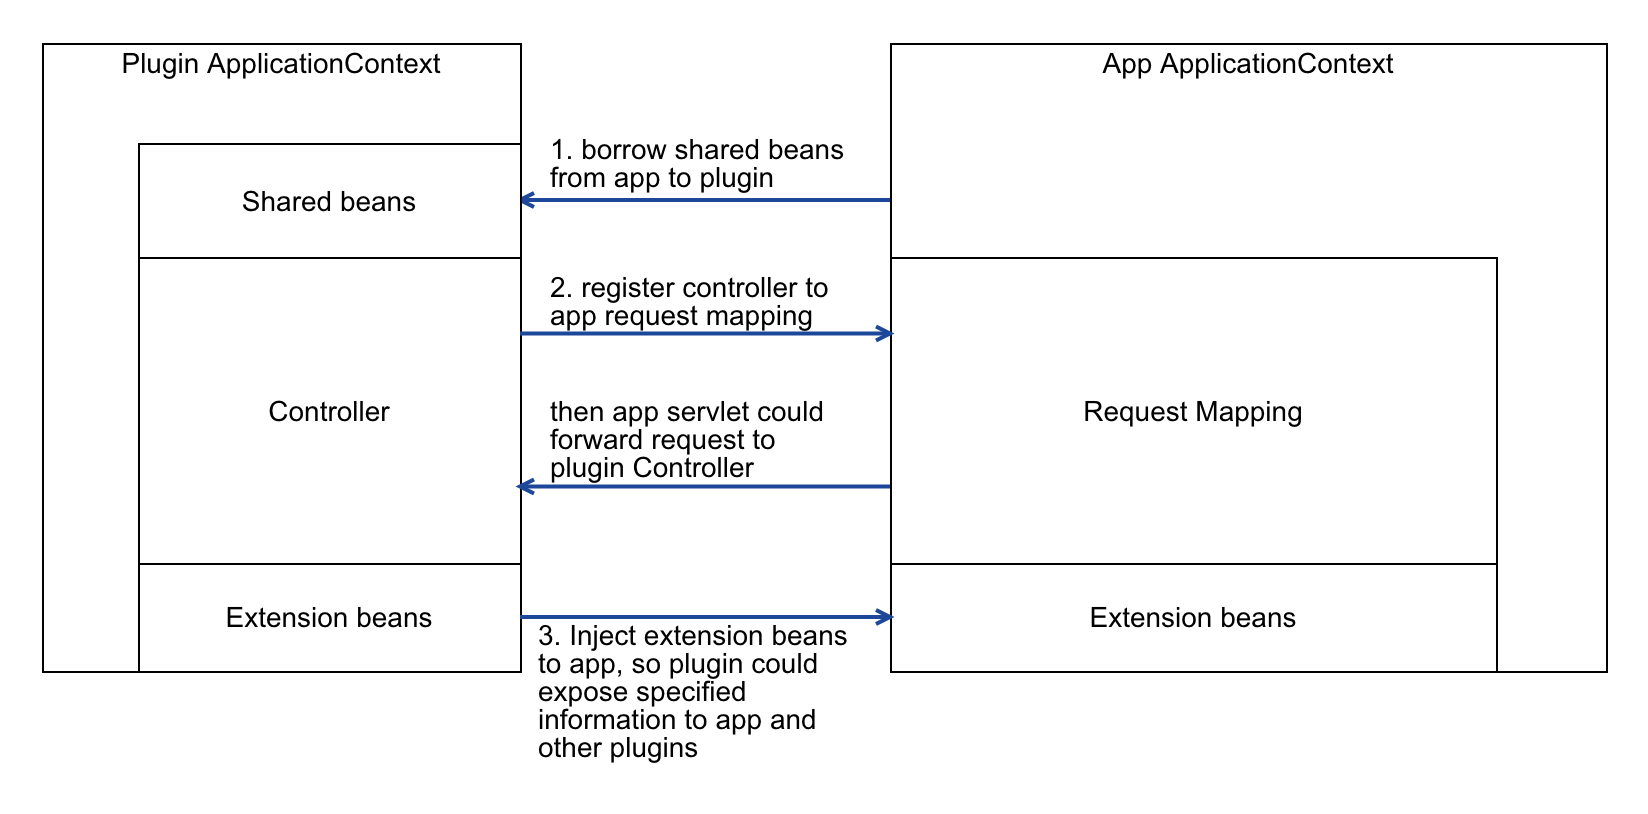
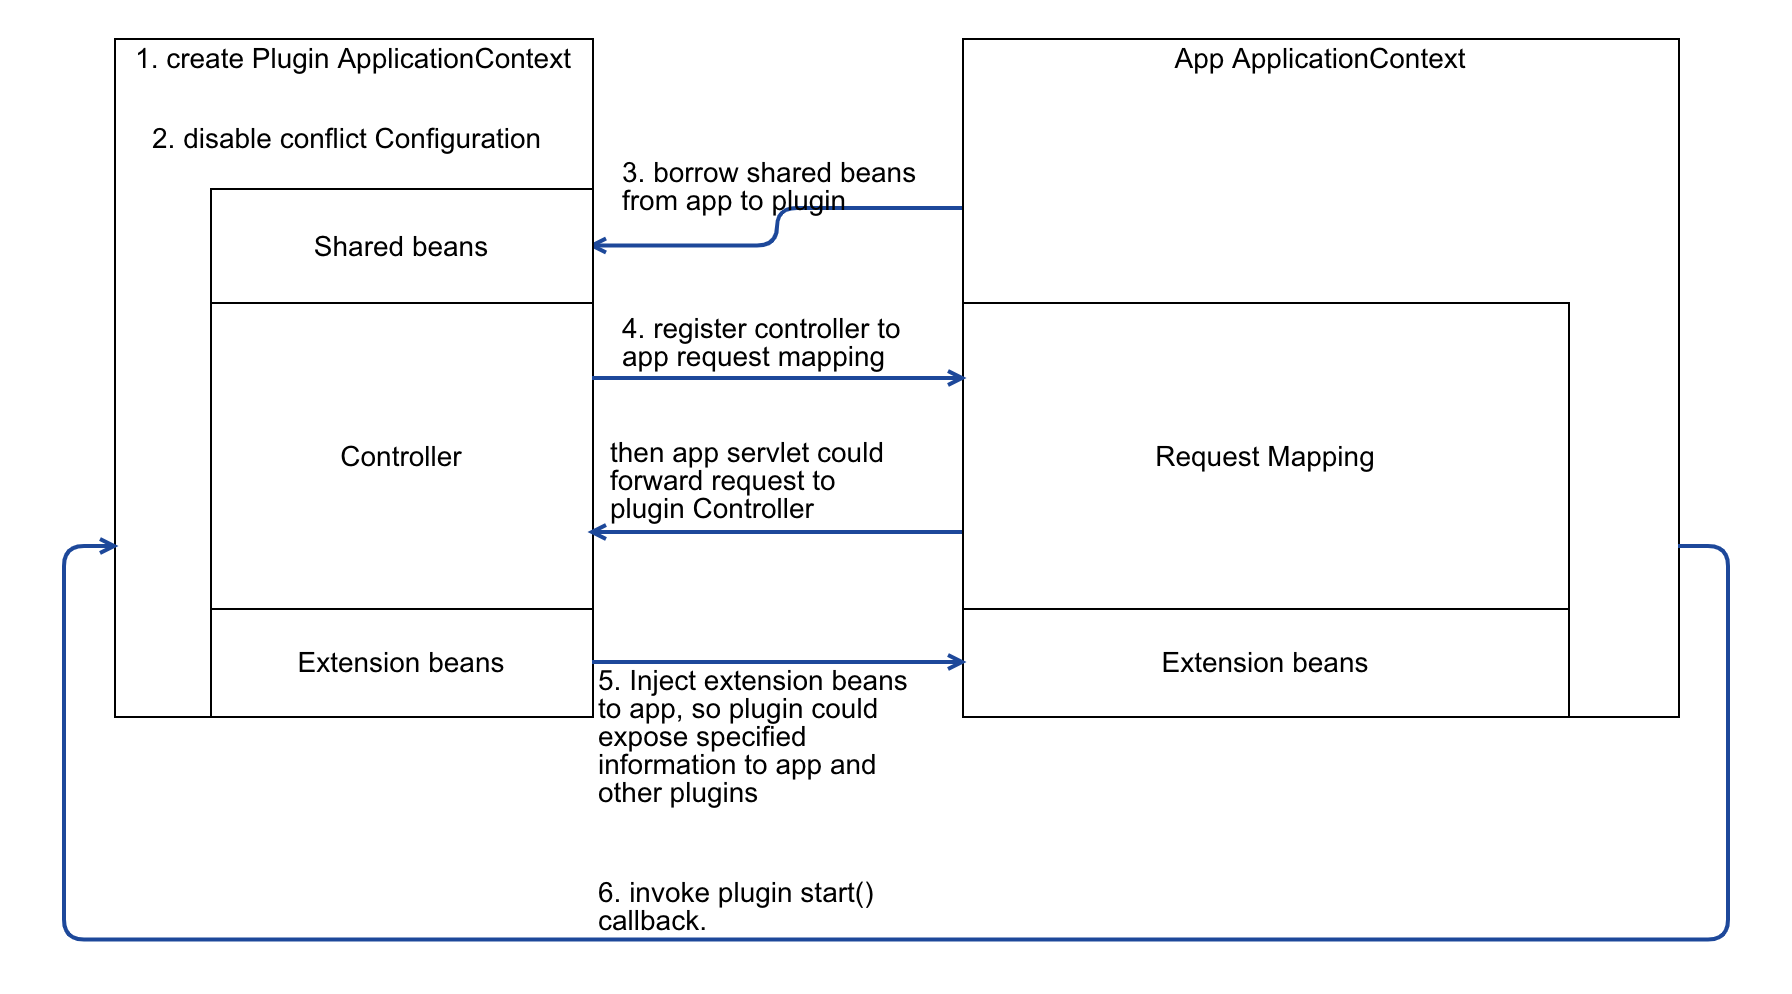
Refactor ApplicationContextProvider

diff --git a/sbp-core/src/main/java/org/laxture/sbp/utils/MultiApplicationContextProvider.java b/sbp-core/src/main/java/org/laxture/sbp/utils/MultiApplicationContextProvider.java
@@ -1,0 +1,105 @@
+/*
+ * Copyright (C) 2019-present the original author or authors.
+ *
+ * Licensed under the Apache License, Version 2.0 (the "License");
+ * you may not use this file except in compliance with the License.
+ * You may obtain a copy of the License at
+ *
+ *     http://www.apache.org/licenses/LICENSE-2.0
+ *
+ * Unless required by applicable law or agreed to in writing, software
+ * distributed under the License is distributed on an "AS IS" BASIS,
+ * WITHOUT WARRANTIES OR CONDITIONS OF ANY KIND, either express or implied.
+ * See the License for the specific language governing permissions and
+ * limitations under the License.
+ */
+package org.laxture.sbp.utils;
+
+import org.springframework.context.ApplicationContext;
+import org.springframework.context.MessageSource;
+import org.springframework.context.NoSuchMessageException;
+import org.springframework.context.i18n.LocaleContextHolder;
+
+import java.util.Collections;
+import java.util.HashMap;
+import java.util.Map;
+import java.util.Optional;
+
+/**
+ * Get {@link ApplicationContext> in static way. Since {@link ApplicationContext}
+ * is bound to static class in this way, Plugin shouldn't use it directly, but
+ * need to inherit it as a new privite class and register it in its own configuration.
+ *
+ * To register main {@link ApplicationContext}
+ * ```
+ *     @EventListener(classes = ContextStartedEvent.class)
+ *     public void onApplicationStarted(ApplicationContext applicationContext) {
+ *         MultiApplicationContextProvider.registerApplicationContext(applicationContext);
+ *     }
+ * ```
+ * @author <a href="https://github.com/hank-cp">Hank CP</a>
+ */
+public class MultiApplicationContextProvider {
+
+    private static Map<ClassLoader, ApplicationContext> ctxCache = Collections.synchronizedMap(new HashMap<>());
+
+    public static void registerApplicationContext(ApplicationContext ctx) {
+        ctxCache.put(ctx.getClassLoader(), ctx);
+    }
+
+    public static void unregisterApplicationContext(ApplicationContext ctx) {
+        ctxCache.remove(ctx.getClassLoader());
+    }
+
+    public static ApplicationContext getApplicationContext(Object probe) {
+        return getApplicationContext(probe.getClass().getClassLoader());
+    }
+
+    public static ApplicationContext getApplicationContext(Class<?> probeClazz) {
+        return getApplicationContext(probeClazz.getClassLoader());
+    }
+
+    public static ApplicationContext getApplicationContext(ClassLoader classLoader) {
+        return ctxCache.get(classLoader);
+    }
+
+    public static <T> T getBean(Class<T> clazz) {
+        return getBean(clazz.getClassLoader(), clazz);
+    }
+
+    public static <T> T getBean(Class<?> probeClazz, Class<T> clazz) {
+        return getBean(probeClazz.getClassLoader(), clazz);
+    }
+
+    public static <T> T getBean(ClassLoader classLoader, Class<T> clazz) {
+        ApplicationContext ctx = getApplicationContext(classLoader);
+        assert ctx != null;
+        return ctx.getBean(clazz);
+    }
+
+    public static <T> T getBean(Class<?> probeClazz, String beanName) {
+        return getBean(probeClazz.getClassLoader(), beanName);
+    }
+
+    @SuppressWarnings("unchecked")
+    public static <T> T getBean(ClassLoader classLoader, String beanName) {
+        ApplicationContext ctx = getApplicationContext(classLoader);
+        assert ctx != null;
+        return (T) ctx.getBean(beanName);
+    }
+
+    public static String getMessage(Class<?> probeClazz, String msgKey, Object...params) {
+        return getMessage(probeClazz.getClassLoader(), msgKey, params);
+    }
+
+    public static String getMessage(ClassLoader classLoader, String msgKey, Object...params) {
+        assert ctxCache.containsKey(classLoader);
+        try {
+            return Optional.ofNullable(getBean(MessageSource.class)).map(bean -> bean.getMessage(
+                    msgKey, params, LocaleContextHolder.getLocale())).orElse(msgKey);
+        } catch (NoSuchMessageException ignored) {
+            return msgKey;
+        }
+    }
+
+}

diff --git a/demo-app/src/main/java/demo/sbp/app/DemoApp.java b/demo-app/src/main/java/demo/sbp/app/DemoApp.java
@@ -16,7 +16,7 @@
 package demo.sbp.app;
 
 import demo.sbp.shared.IdsConverter;
-import demo.sbp.shared.spring.ApplicationContextProvider;
+import org.laxture.sbp.utils.MultiApplicationContextProvider;
 import org.modelmapper.ModelMapper;
 import org.modelmapper.convention.NameTokenizers;
 import org.modelmapper.jooq.RecordValueReader;
@@ -25,8 +25,12 @@ import org.springframework.boot.autoconfigure.condition.ConditionalOnMissingBean
 import org.springframework.boot.autoconfigure.security.servlet.SecurityAutoConfiguration;
 import org.springframework.boot.autoconfigure.security.servlet.SecurityFilterAutoConfiguration;
 import org.springframework.boot.builder.SpringApplicationBuilder;
+import org.springframework.context.ApplicationContext;
 import org.springframework.context.annotation.Bean;
 import org.springframework.context.annotation.Profile;
+import org.springframework.context.event.ContextStartedEvent;
+import org.springframework.context.event.ContextStoppedEvent;
+import org.springframework.context.event.EventListener;
 
 /**
  * @author <a href="https://github.com/hank-cp">Hank CP</a>
@@ -44,10 +48,14 @@ public class DemoApp {
         builder.build().run();
     }
 
-    @Bean
-    @ConditionalOnMissingBean
-    public ApplicationContextProvider applicationContextProvider() {
-        return new ApplicationContextProvider();
+    @EventListener(classes = ContextStartedEvent.class)
+    public void onApplicationStarted(ApplicationContext applicationContext) {
+        MultiApplicationContextProvider.registerApplicationContext(applicationContext);
+    }
+
+    @EventListener(classes = ContextStoppedEvent.class)
+    public void onApplicationStopped(ApplicationContext applicationContext) {
+        MultiApplicationContextProvider.unregisterApplicationContext(applicationContext);
     }
 
     @Bean

diff --git a/sbp-core/src/main/java/org/laxture/sbp/SpringBootPlugin.java b/sbp-core/src/main/java/org/laxture/sbp/SpringBootPlugin.java
@@ -19,6 +19,7 @@ import org.apache.commons.lang3.StringUtils;
 import org.laxture.sbp.spring.boot.PluginRequestMappingHandlerMapping;
 import org.laxture.sbp.spring.boot.SharedDataSourceSpringBootstrap;
 import org.laxture.sbp.spring.boot.SpringBootstrap;
+import org.laxture.sbp.utils.MultiApplicationContextProvider;
 import org.pf4j.Extension;
 import org.pf4j.Plugin;
 import org.pf4j.PluginManager;
@@ -105,6 +106,8 @@ public abstract class SpringBootPlugin extends Plugin {
                 throw new IllegalArgumentException(e.getMessage(), e);
             }
         }
+
+        MultiApplicationContextProvider.registerApplicationContext(applicationContext);
     }
 
     @Override
@@ -127,7 +130,9 @@ public abstract class SpringBootPlugin extends Plugin {
         }
 
         getMainRequestMapping().unregisterControllers(this);
+        MultiApplicationContextProvider.unregisterApplicationContext(applicationContext);
         ((ConfigurableApplicationContext) applicationContext).close();
+
         log.debug("Plugin {} is stopped", getWrapper().getPluginId());
     }
 

diff --git a/plugins/demo-plugin-library/src/main/java/demo/sbp/library/LibraryPluginStarter.java b/plugins/demo-plugin-library/src/main/java/demo/sbp/library/LibraryPluginStarter.java
@@ -18,7 +18,7 @@ package demo.sbp.library;
 import demo.sbp.api.service.BookService;
 import demo.sbp.library.service.BookServiceMock;
 import demo.sbp.shared.IdsConverter;
-import demo.sbp.shared.spring.ApplicationContextProvider;
+import org.laxture.sbp.utils.MultiApplicationContextProvider;
 import org.modelmapper.ModelMapper;
 import org.modelmapper.convention.NameTokenizers;
 import org.modelmapper.jooq.RecordValueReader;
@@ -37,11 +37,6 @@ public class LibraryPluginStarter {
 
     public static void main(String[] args) {
         SpringApplication.run(LibraryPluginStarter.class, args);
-    }
-
-    @Bean
-    public ApplicationContextProvider applicationContextProvider() {
-        return new LibraryContextProvider();
     }
 
     @Bean

diff --git a/plugins/demo-plugin-library/src/main/java/demo/sbp/library/model/LibraryBooks.java b/plugins/demo-plugin-library/src/main/java/demo/sbp/library/model/LibraryBooks.java
@@ -18,7 +18,8 @@ package demo.sbp.library.model;
 import com.fasterxml.jackson.annotation.JsonIgnore;
 import demo.sbp.api.model.Book;
 import demo.sbp.api.service.BookService;
-import demo.sbp.library.LibraryContextProvider;
+import demo.sbp.library.LibraryPlugin;
+import org.laxture.sbp.utils.MultiApplicationContextProvider;
 
 import javax.persistence.*;
 
@@ -45,7 +46,8 @@ public class LibraryBooks {
 
     @PostLoad
     private void postLoad() {
-        BookService bookService = LibraryContextProvider.getBean(BookService.class);
+        BookService bookService = MultiApplicationContextProvider
+                .getBean(LibraryPlugin.class, BookService.class);
         book = bookService.getBook(bookId);
     }
 }

diff --git a/demo-app/src/main/java/demo/security/DemoSecurityApp.java b/demo-app/src/main/java/demo/security/DemoSecurityApp.java
@@ -16,7 +16,7 @@
 package demo.security;
 
 import demo.sbp.shared.IdsConverter;
-import demo.sbp.shared.spring.ApplicationContextProvider;
+import org.laxture.sbp.utils.MultiApplicationContextProvider;
 import org.modelmapper.ModelMapper;
 import org.modelmapper.convention.NameTokenizers;
 import org.modelmapper.jooq.RecordValueReader;
@@ -41,8 +41,8 @@ public class DemoSecurityApp {
 
     @Bean
     @ConditionalOnMissingBean
-    public ApplicationContextProvider applicationContextProvider() {
-        return new ApplicationContextProvider();
+    public MultiApplicationContextProvider applicationContextProvider() {
+        return new MultiApplicationContextProvider();
     }
 
     @Bean

diff --git a/sbp-core/src/main/java/org/laxture/sbp/utils/PluginUtils.java b/sbp-core/src/main/java/org/laxture/sbp/utils/PluginUtils.java
@@ -13,7 +13,7 @@
  * See the License for the specific language governing permissions and
  * limitations under the License.
  */
-package org.laxture.sbp.spring.boot.utils;
+package org.laxture.sbp.utils;
 
 import org.pf4j.PluginManager;
 import org.slf4j.Logger;

diff --git a/README.md b/README.md
@@ -150,7 +150,7 @@ everything we need in the real project.
 
 ### Documentation
 * [How it works](docs/how_it_works.md)
-* [Coding Plugin](docs/coding_plugin.md)
+* [Tutorials](docs/tutorials.md)
 * [Configuration](docs/configuration.md)
 * [Persistence](docs/persistence.md)
 * [Security / AOP](docs/security_aop.md)

diff --git a/docs/trouble_shoot.md b/docs/trouble_shoot.md
@@ -4,6 +4,8 @@
 
 ##### I get `ClassCastException`
 
+##### Plugin modification is not compiled
+
 ## Misc.
 * Package name cannot start with `org.pf4j`, `java` or `javax`. 
 `PluginClassLoader` will treat them differently. 

diff --git a/docs/tutorials.md b/docs/tutorials.md
@@ -3,3 +3,5 @@
 ### SpringBootStrap
 * SharedDataSourceBootstrap
 * SharedJtaBootstrap
+
+### 
